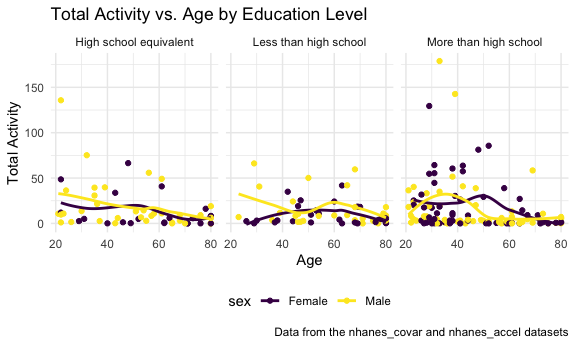
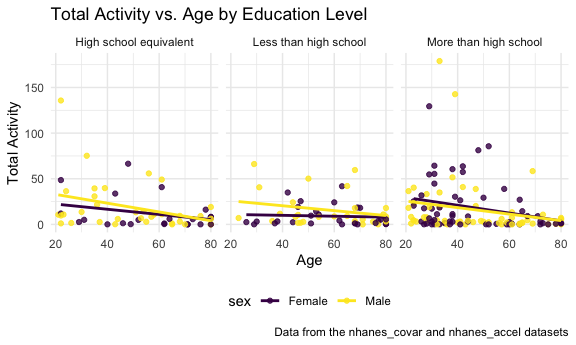
change"Very Good" to "Very good", add "locationdesc" to plot

diff --git a/p8105_hw3_xz3173.md b/p8105_hw3_xz3173.md
@@ -228,11 +228,11 @@ brfss_smart2010 = brfss_smart2010 |>
   filter(topic == "Overall Health") |>
   
   # include only responses from “Excellent” to “Poor”
-  filter(response %in% c("Excellent", "Very Good", "Good", "Fair", "Poor")) |>
+  filter(response %in% c("Excellent", "Very good", "Good", "Fair", "Poor")) |>
   
   # organize responses as a factor taking levels ordered from “Poor” to “Excellent”
   mutate(response = factor(response, 
-                           levels = c("Poor", "Fair", "Good", "Very Good", "Excellent"),
+                           levels = c("Poor", "Fair", "Good", "Very good", "Excellent"),
                            ordered = TRUE))
 ```
 
@@ -242,50 +242,62 @@ brfss_smart2010 = brfss_smart2010 |>
 ``` r
 states_with_7_or_more_locations_in_2002 = brfss_smart2010 |>
   filter(year == 2002) |>
-  group_by(locationabbr) |>
+  group_by(year, locationabbr) |>
   summarize(n_locations = n_distinct(locationdesc)) |>
   filter(n_locations >= 7)
+```
 
+    ## `summarise()` has grouped output by 'year'. You can override using the
+    ## `.groups` argument.
+
+``` r
 print(states_with_7_or_more_locations_in_2002)
 ```
 
-    ## # A tibble: 6 × 2
-    ##   locationabbr n_locations
-    ##   <chr>              <int>
-    ## 1 CT                     7
-    ## 2 FL                     7
-    ## 3 MA                     8
-    ## 4 NC                     7
-    ## 5 NJ                     8
-    ## 6 PA                    10
+    ## # A tibble: 6 × 3
+    ## # Groups:   year [1]
+    ##    year locationabbr n_locations
+    ##   <int> <chr>              <int>
+    ## 1  2002 CT                     7
+    ## 2  2002 FL                     7
+    ## 3  2002 MA                     8
+    ## 4  2002 NC                     7
+    ## 5  2002 NJ                     8
+    ## 6  2002 PA                    10
 
 ``` r
 states_with_7_or_more_locations_in_2010 = brfss_smart2010 |>
   filter(year == 2010) |>
-  group_by(locationabbr) |>
+  group_by(year, locationabbr) |>
   summarize(n_locations = n_distinct(locationdesc)) |>
   filter(n_locations >= 7)
+```
 
+    ## `summarise()` has grouped output by 'year'. You can override using the
+    ## `.groups` argument.
+
+``` r
 print(states_with_7_or_more_locations_in_2010)
 ```
 
-    ## # A tibble: 14 × 2
-    ##    locationabbr n_locations
-    ##    <chr>              <int>
-    ##  1 CA                    12
-    ##  2 CO                     7
-    ##  3 FL                    41
-    ##  4 MA                     9
-    ##  5 MD                    12
-    ##  6 NC                    12
-    ##  7 NE                    10
-    ##  8 NJ                    19
-    ##  9 NY                     9
-    ## 10 OH                     8
-    ## 11 PA                     7
-    ## 12 SC                     7
-    ## 13 TX                    16
-    ## 14 WA                    10
+    ## # A tibble: 14 × 3
+    ## # Groups:   year [1]
+    ##     year locationabbr n_locations
+    ##    <int> <chr>              <int>
+    ##  1  2010 CA                    12
+    ##  2  2010 CO                     7
+    ##  3  2010 FL                    41
+    ##  4  2010 MA                     9
+    ##  5  2010 MD                    12
+    ##  6  2010 NC                    12
+    ##  7  2010 NE                    10
+    ##  8  2010 NJ                    19
+    ##  9  2010 NY                     9
+    ## 10  2010 OH                     8
+    ## 11  2010 PA                     7
+    ## 12  2010 SC                     7
+    ## 13  2010 TX                    16
+    ## 14  2010 WA                    10
 
 - Construct a dataset that is limited to Excellent responses, and
   contains, year, state, and a variable that averages the data_value
@@ -342,10 +354,9 @@ ggplot(excellent_df, aes(x = year, y = average_value, group = locationabbr, colo
 
 ``` r
 ny_df = brfss_smart2010 |>
-  filter(locationabbr == "NY"  & (year == 2006 | year == 2010))
+  filter(locationabbr == "NY"  & (year == 2006 | year == 2010)) 
 
-
-ggplot(ny_df, aes(x = response, y = data_value)) +
+ggplot(ny_df, aes(x = response, y = data_value, color = locationdesc)) +
   geom_boxplot() +
   facet_grid(. ~ year) +
   labs(title = "Distribution of Data Value in NY for 2006 and 2010", 
@@ -424,7 +435,8 @@ education category,
 ``` r
 education_table = merged_df |>
   group_by(sex, education) |>
-  summarize(count = n())
+  summarize(count = n()) |>
+  knitr::kable(digits = 1)
 ```
 
     ## `summarise()` has grouped output by 'sex'. You can override using the `.groups`
@@ -434,16 +446,16 @@ education_table = merged_df |>
 print(education_table)
 ```
 
-    ## # A tibble: 6 × 3
-    ## # Groups:   sex [2]
-    ##   sex    education              count
-    ##   <chr>  <chr>                  <int>
-    ## 1 Female High school equivalent    23
-    ## 2 Female Less than high school     28
-    ## 3 Female More than high school     59
-    ## 4 Male   High school equivalent    35
-    ## 5 Male   Less than high school     27
-    ## 6 Male   More than high school     56
+    ## 
+    ## 
+    ## |sex    |education              | count|
+    ## |:------|:----------------------|-----:|
+    ## |Female |High school equivalent |    23|
+    ## |Female |Less than high school  |    28|
+    ## |Female |More than high school  |    59|
+    ## |Male   |High school equivalent |    35|
+    ## |Male   |Less than high school  |    27|
+    ## |Male   |More than high school  |    56|
 
 Create a visualization of the age distributions for men and women in
 each education category.
@@ -482,16 +494,16 @@ activity_df = merged_df |>
 
 ``` r
 ggplot(activity_df, aes(x = age, y = total_activity, color = sex)) +
-  geom_point() +
-  geom_smooth(se = FALSE) +
-  facet_wrap(. ~ education) +
+  geom_point(alpha = 0.8) +
+  geom_smooth(method = "lm", se = FALSE) +
+  facet_grid(. ~ education) +
   labs(title = "Total Activity vs. Age by Education Level",
        x = "Age",
        y = "Total Activity",
        caption = "Data from the nhanes_covar and nhanes_accel datasets") 
 ```
 
-    ## `geom_smooth()` using method = 'loess' and formula = 'y ~ x'
+    ## `geom_smooth()` using formula = 'y ~ x'
 
 <img src="p8105_hw3_xz3173_files/figure-gfm/unnamed-chunk-20-1.png" width="90%" />
 
